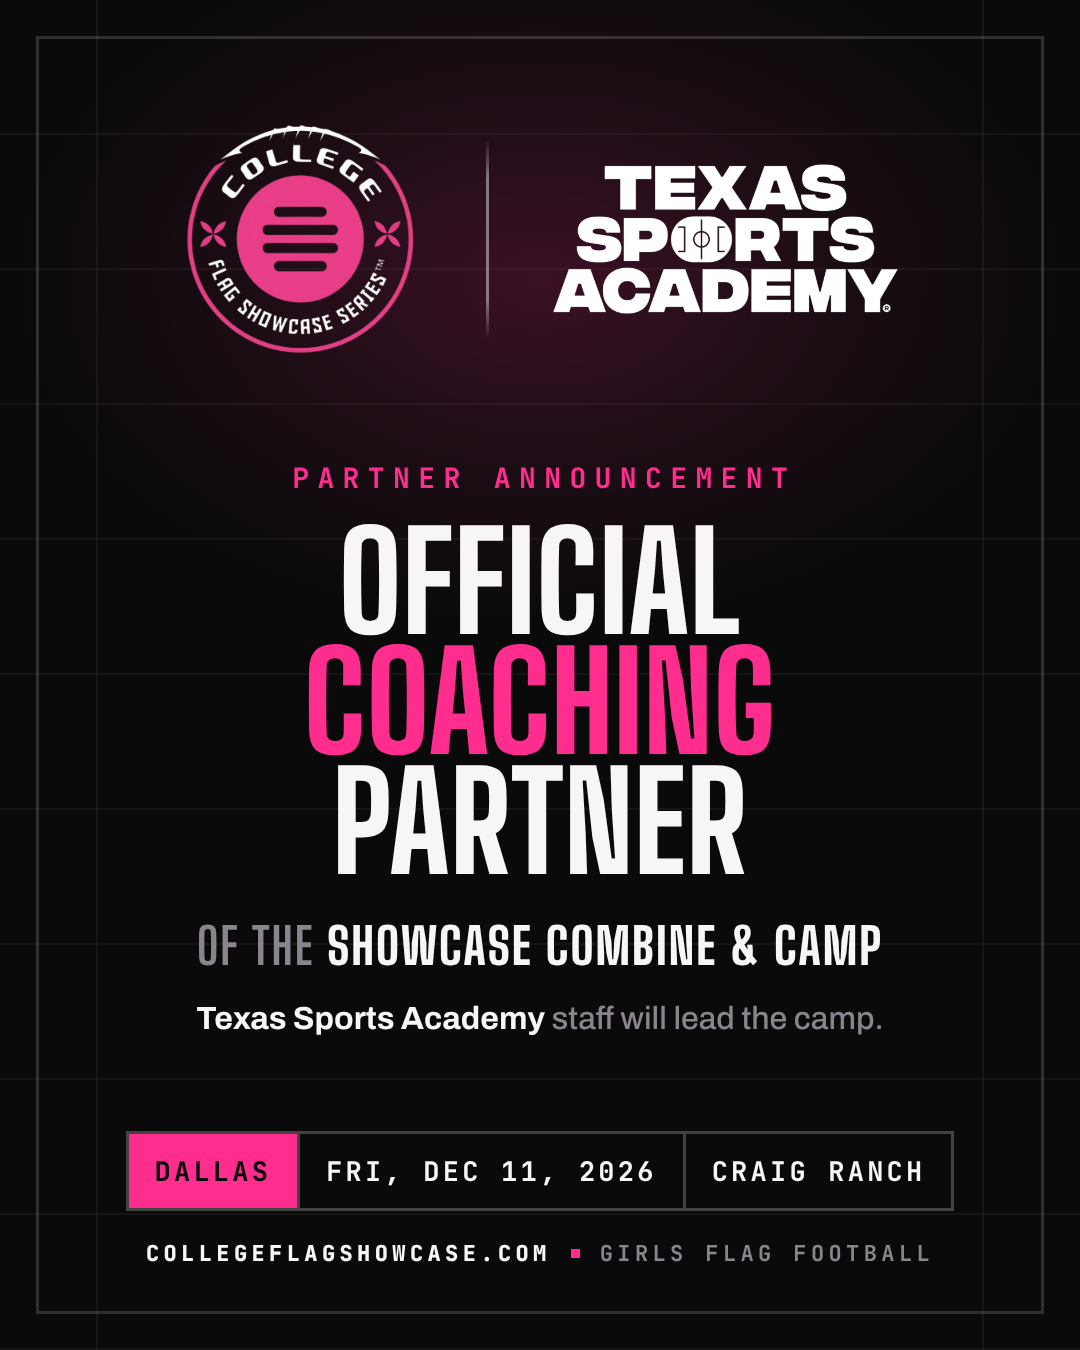
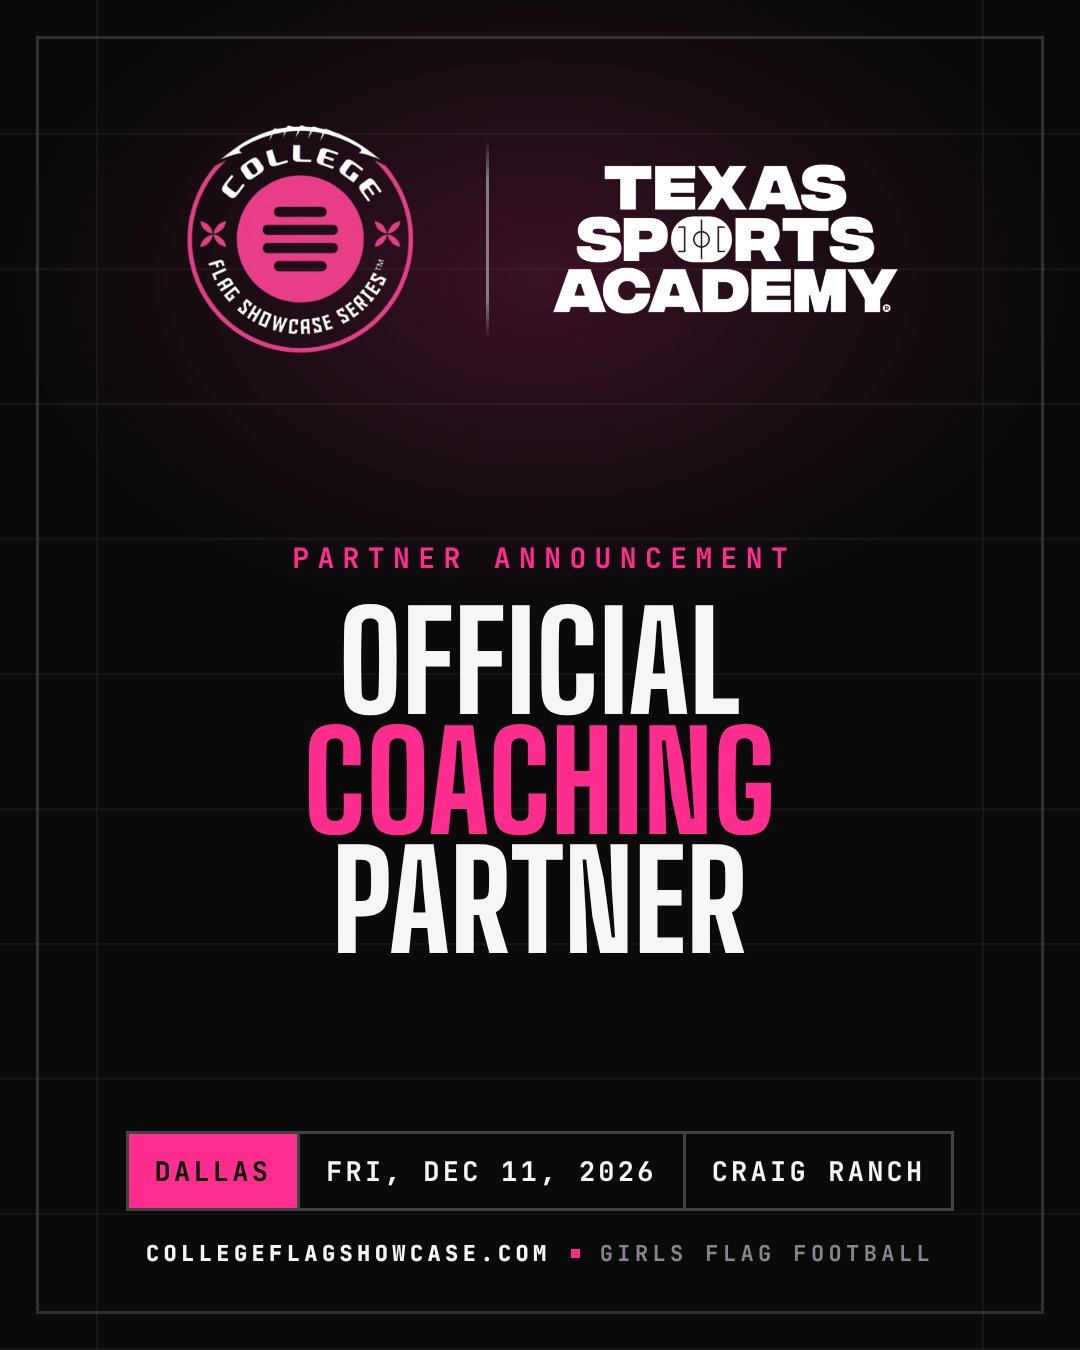
TSA partner post: drop the lines under the headline
Claude-Session: https://claude.ai/code/session_019V32boShoBmRrwWenCPJFc

Changed region(s): [[0.1833, 0.3422, 0.825, 0.7156], [0.1833, 0.7467, 0.825, 0.7778]]

diff --git a/collateral/ig-partner-texas-sports-academy.html b/collateral/ig-partner-texas-sports-academy.html
@@ -75,9 +75,7 @@
 
     <p class="name">Partner Announcement</p>
     <h1>Official<br><em>Coaching</em><br>Partner</h1>
-    <p class="of"><span>of the</span> Showcase Combine &amp; Camp</p>
-    <p class="sub"><b>Texas Sports Academy</b> staff will lead the camp.</p>
-
+    
     <div class="bar">
       <span class="hot">Dallas</span>
       <span>Fri, Dec 11, 2026</span>
